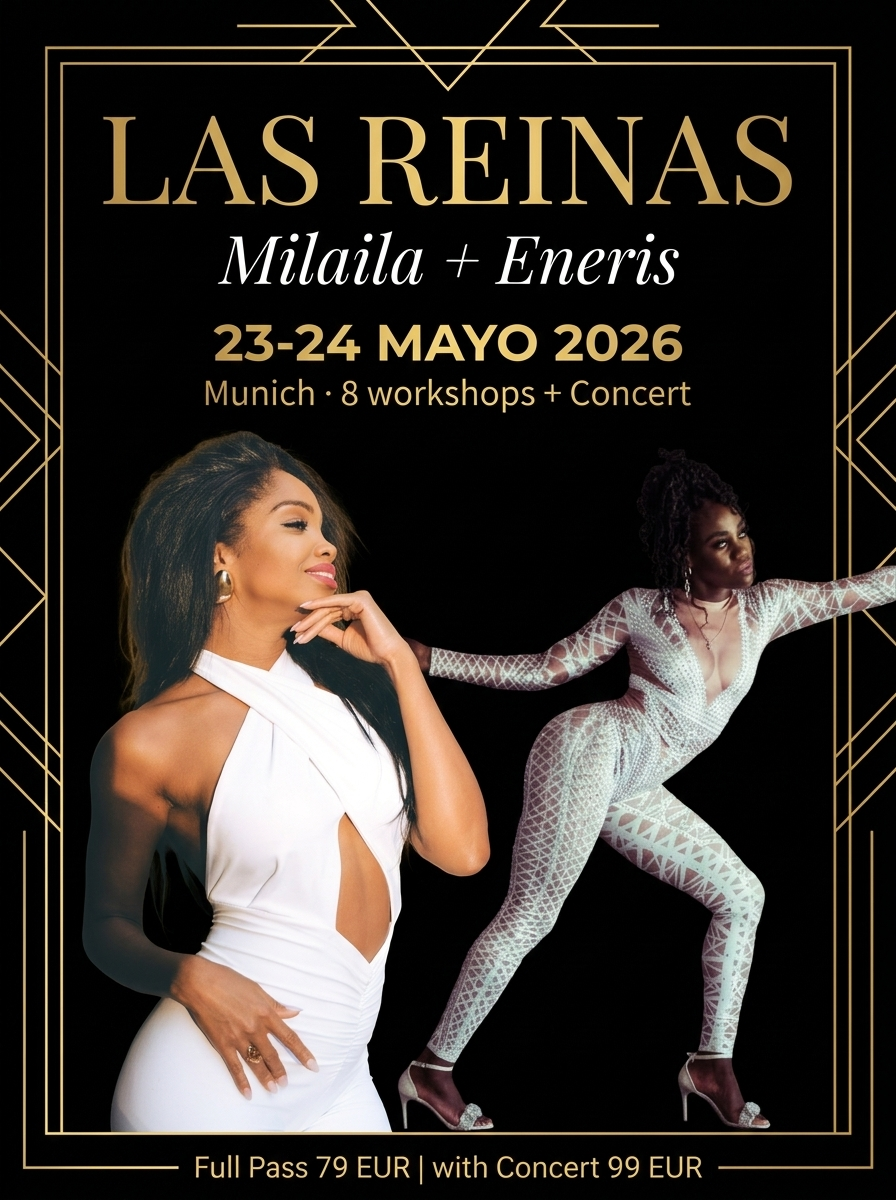
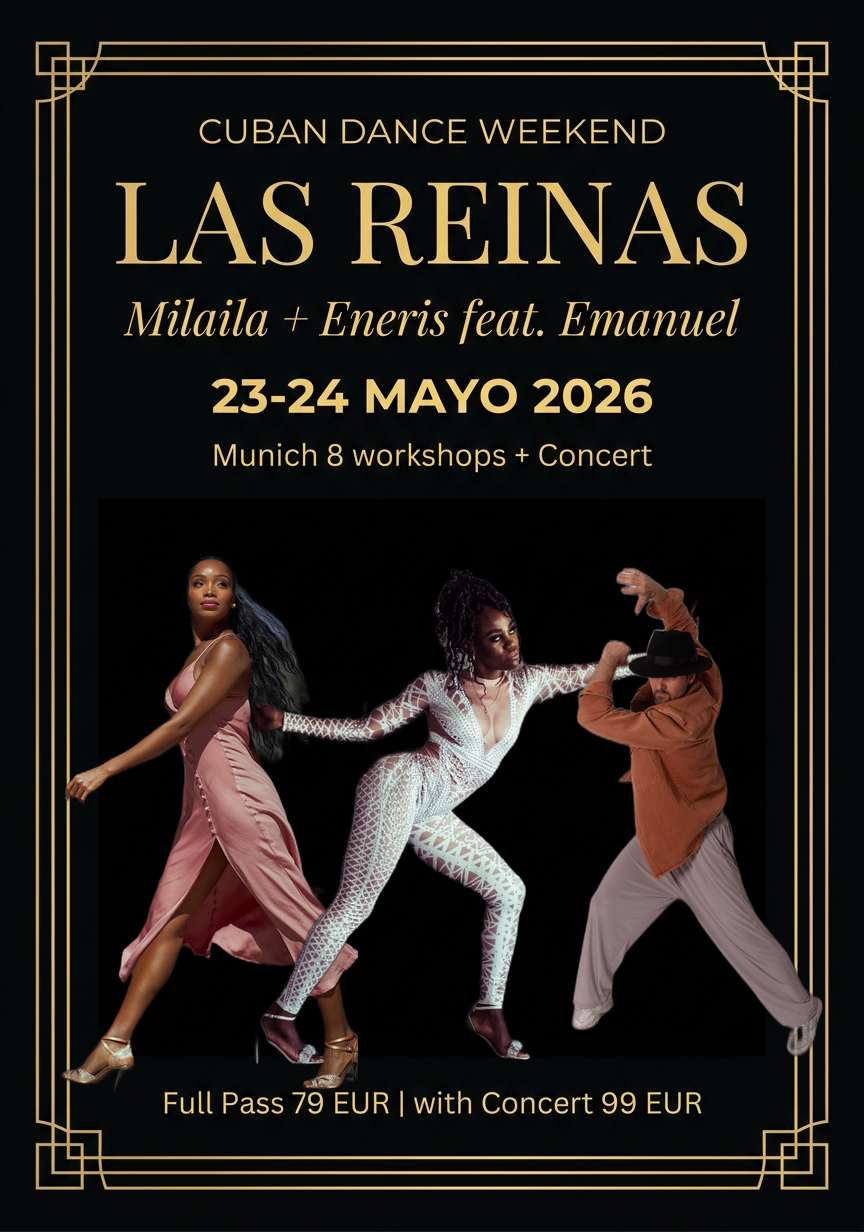
feat(las-reinas): add Emanuel · Men-Style, swap Milaila Sat workshops to Elegua + Son Cubano, tighten lunch
Schedule changes:
- Saturday 10:00: parallel EneriStyle (Eneris) ⇄ Men-Style (Emanuel) — Emanuel Lederer
  joins as the men's track during EneriStyle.
- Milaila Saturday workshops swapped to Elegua + Son Cubano (replaces
  Timba en Pareja + Lady Styling tacones).
- Afternoon start shifted 14:00 → 13:00, 15:15 → 14:15 (tighter lunch).
- Sunday Las Reinas finale moved 16:30 → 15:30.

Component refactored to a flat chronological list with (instructor) tags per
class, matching the schedule flyer. Updated subtitle/body/imageAlt + hero image
in all 5 locales.

diff --git a/app/components/LasReinasWorkshops.vue b/app/components/LasReinasWorkshops.vue
@@ -57,61 +57,32 @@ const waUrl = computed(
               <p class="text-xs font-bold uppercase tracking-wider text-gold-400 mb-3">
                 {{ $t('lasReinas.satTitle') }}
               </p>
-              <div class="space-y-3">
-                <div>
-                  <p class="text-[11px] uppercase tracking-[0.18em] text-gold-300/70 mb-1.5 flex items-center gap-1.5">
-                    <span class="w-1.5 h-1.5 rounded-full bg-gold-400" /> Eneris
-                  </p>
-                  <ul class="text-sm text-wine-200 space-y-1.5">
-                    <li><span class="text-gold-300">10:00</span> EneriStyle</li>
-                    <li><span class="text-gold-300">11:15</span> Salsa con Rumba</li>
-                  </ul>
-                </div>
-                <div>
-                  <p class="text-[11px] uppercase tracking-[0.18em] text-white/70 mb-1.5 flex items-center gap-1.5">
-                    <span class="w-1.5 h-1.5 rounded-full bg-white/80" /> Milaila
-                  </p>
-                  <ul class="text-sm text-wine-200 space-y-1.5">
-                    <li><span class="text-gold-300">14:00</span> Timba en Pareja</li>
-                    <li><span class="text-gold-300">15:15</span> Lady Styling tacones</li>
-                  </ul>
-                </div>
-                <ul class="text-sm text-wine-200 pt-2 border-t border-wine-800/40">
-                  <li><span class="text-gold-300">19:00</span> {{ $t('lasReinas.concert') }}</li>
-                </ul>
-              </div>
+              <ul class="text-sm text-wine-200 space-y-2">
+                <li>
+                  <div><span class="text-gold-300">10:00</span> EneriStyle <span class="text-wine-400 text-xs">(Eneris)</span></div>
+                  <div class="ml-12 text-xs text-wine-400">⇄ Men-Style <span class="text-wine-500">(Emanuel)</span></div>
+                </li>
+                <li><span class="text-gold-300">11:15</span> Salsa con Rumba <span class="text-wine-400 text-xs">(Eneris)</span></li>
+                <li><span class="text-gold-300">13:00</span> Elegua <span class="text-wine-400 text-xs">(Milaila)</span></li>
+                <li><span class="text-gold-300">14:15</span> Son Cubano <span class="text-wine-400 text-xs">(Milaila)</span></li>
+                <li class="pt-2 border-t border-wine-800/40">
+                  <span class="text-gold-300">19:00</span> {{ $t('lasReinas.concert') }}
+                </li>
+              </ul>
             </div>
             <div class="rounded-xl border border-gold-500/20 bg-gold-500/5 p-4">
               <p class="text-xs font-bold uppercase tracking-wider text-gold-400 mb-3">
                 {{ $t('lasReinas.sunTitle') }}
               </p>
-              <div class="space-y-3">
-                <div>
-                  <p class="text-[11px] uppercase tracking-[0.18em] text-gold-300/70 mb-1.5 flex items-center gap-1.5">
-                    <span class="w-1.5 h-1.5 rounded-full bg-gold-400" /> Eneris
-                  </p>
-                  <ul class="text-sm text-wine-200 space-y-1.5">
-                    <li><span class="text-gold-300">10:00</span> Timba con Eneris</li>
-                    <li><span class="text-gold-300">11:15</span> Salsa con Reparto</li>
-                  </ul>
-                </div>
-                <div>
-                  <p class="text-[11px] uppercase tracking-[0.18em] text-white/70 mb-1.5 flex items-center gap-1.5">
-                    <span class="w-1.5 h-1.5 rounded-full bg-white/80" /> Milaila
-                  </p>
-                  <ul class="text-sm text-wine-200 space-y-1.5">
-                    <li><span class="text-gold-300">14:00</span> Rueda de Casino</li>
-                    <li><span class="text-gold-300">15:15</span> Conga y Comparsa</li>
-                  </ul>
-                </div>
-                <ul class="text-sm text-wine-200 pt-2 border-t border-wine-800/40">
-                  <li class="flex items-baseline gap-1.5">
-                    <span class="text-gold-300">16:30</span>
-                    <span>👑 Las Reinas</span>
-                    <span class="text-[11px] text-wine-400">· Eneris + Milaila</span>
-                  </li>
-                </ul>
-              </div>
+              <ul class="text-sm text-wine-200 space-y-2">
+                <li><span class="text-gold-300">10:00</span> Timba <span class="text-wine-400 text-xs">(Eneris)</span></li>
+                <li><span class="text-gold-300">11:15</span> Salsa con Reparto <span class="text-wine-400 text-xs">(Eneris)</span></li>
+                <li><span class="text-gold-300">13:00</span> Rueda de Casino <span class="text-wine-400 text-xs">(Milaila)</span></li>
+                <li><span class="text-gold-300">14:15</span> Conga y Comparsa <span class="text-wine-400 text-xs">(Milaila)</span></li>
+                <li class="pt-2 border-t border-wine-800/40">
+                  <span class="text-gold-300">15:30</span> 👑 Las Reinas <span class="text-wine-400 text-xs">(Eneris + Milaila)</span>
+                </li>
+              </ul>
             </div>
           </div>
 
